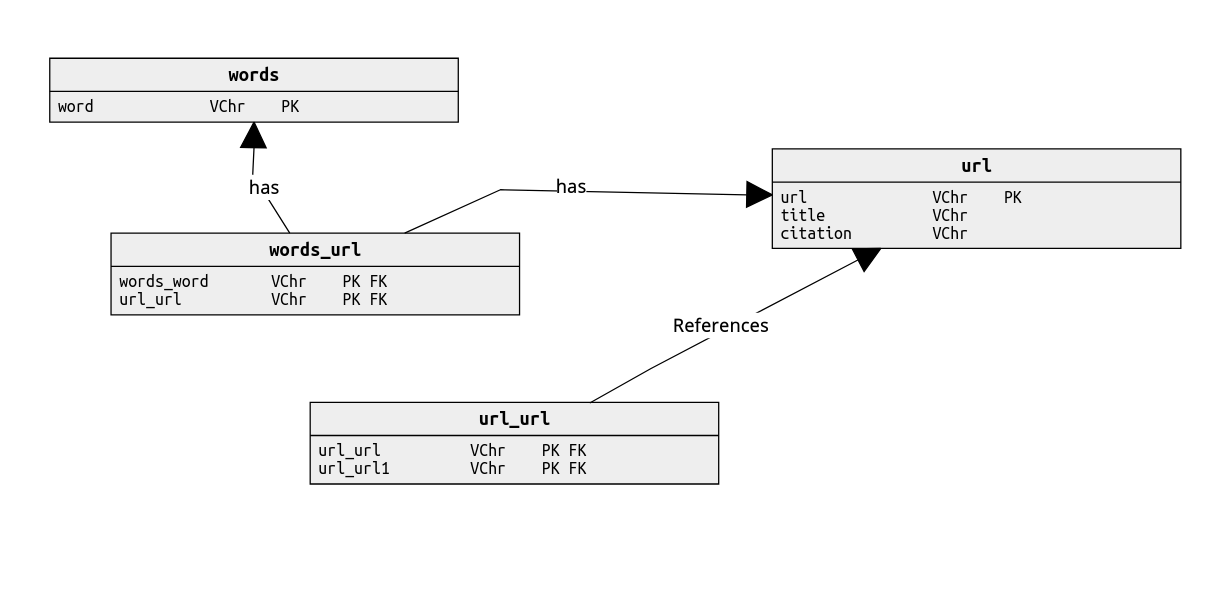
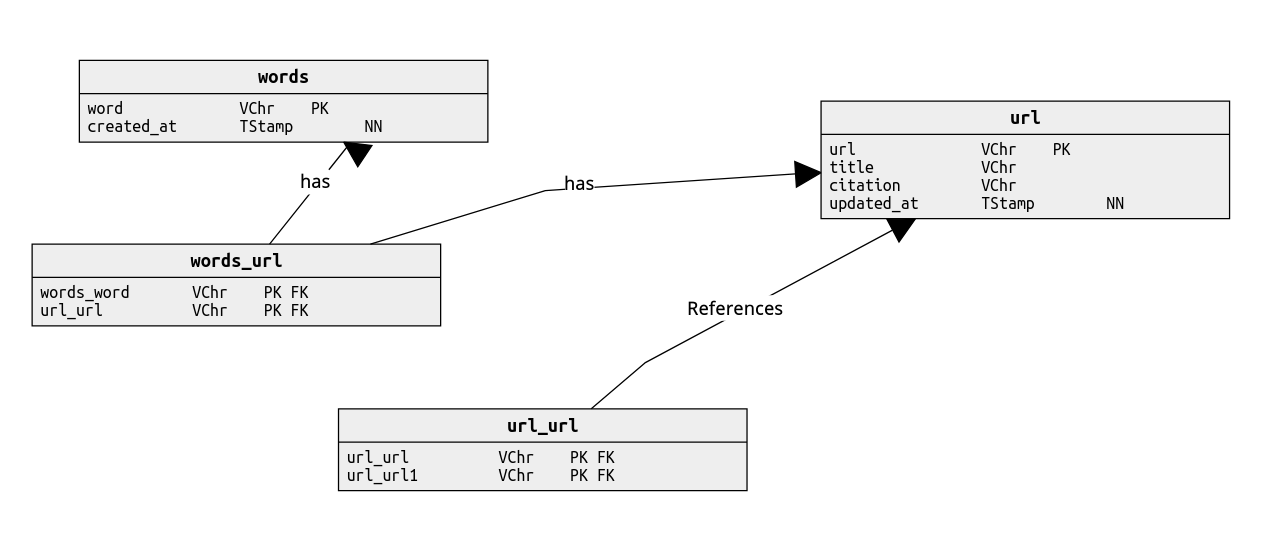
Change DB to prep for synch & some synch helper methods

diff --git a/src/main/java/projetosd/Barrel.java b/src/main/java/projetosd/Barrel.java
@@ -66,7 +66,7 @@ public class Barrel extends UnicastRemoteObject implements BarrelInterface {
         // Because the downloader might insert urls that are in pages before they've been parsed...
         // Here we manage conflicts by updating the remaining info with the excluded insertion
         // Also every query has handling of conflicts because duplicates are common
-        String insertUrlQuery = "INSERT INTO url(url, title, citation) VALUES (?, ?, ?) ON CONFLICT (url) DO UPDATE SET title = EXCLUDED.title, citation = EXCLUDED.citation";
+        String insertUrlQuery = "INSERT INTO url(url, title, citation) VALUES (?, ?, ?) ON CONFLICT (url) DO UPDATE SET title = EXCLUDED.title, citation = EXCLUDED.citation, updated_at = now()";
         // Insert page urls before to avoid breaking foreign keys constraints
         String preInsertPageUrlsQuery = "INSERT INTO url(url) VALUES (?) ON CONFLICT (url) DO NOTHING";
         String insertPageUrlsQuery = "INSERT INTO url_url(url_url, url_url1) VALUES (?, ?) ON CONFLICT DO NOTHING";
@@ -151,7 +151,7 @@ public class Barrel extends UnicastRemoteObject implements BarrelInterface {
                     attempt++;
                     Log.warning("[BARREL " + port + "] Deadlock detected on insertion");
 
-                    try{ Thread.sleep((long) (Config.BARREL_BACKOFF * Math.pow(2, attempt)));} 
+                    try{ Thread.sleep((long) (Config.BARREL_BACKOFF * Math.pow(2, attempt)));}
                     catch (InterruptedException ignored){}
                 }
                 else {
@@ -300,16 +300,25 @@ public class Barrel extends UnicastRemoteObject implements BarrelInterface {
 
         try(java.sql.Connection conn = db.getConnection()){
             for(String table : tables){
+                String columns = switch (table) {
+                    case "url" -> "url, title, citation";
+                    case "words" -> "word";
+                    case "words_url" -> "words_word, url_url";
+                    case "url_url" -> "url_url, url_url1";
+                    default -> "*";
+                };
+
                 String orderColumn = switch (table) {
+                    case "url" -> "url";
                     case "url_url" -> "url_url";
                     case "words" -> "word";
                     case "words_url" -> "words_word";
-                    default -> "url";
+                    default -> "*";
                 };
 
                 // This query computes the tables hash using nested aggregation (aggregate of aggregated values, in this case aggregate each row (tables))
                 // and then aggregate all rows for the table, this is very efficient memory-wise
-                String query = String.format("SELECT md5(string_agg(md5(row(t.*)::text), '' ORDER BY %s)) AS table_hash FROM %s t;", table, orderColumn);
+                String query = String.format("SELECT md5(string_agg(md5(row(%s)::text), '' ORDER BY %s)) AS table_hash FROM %s t;", columns, orderColumn, table);
 
                 try(PreparedStatement stmt = conn.prepareStatement(query)){
                     try(ResultSet rs = stmt.executeQuery()){

diff --git a/src/main/java/projetosd/Gateway.java b/src/main/java/projetosd/Gateway.java
@@ -311,6 +311,42 @@ public class Gateway extends UnicastRemoteObject implements GatewayInterface {
     }
 
     /**
+     * Method to check all barrel hashes and compare to find mismatches
+     * @return HashMap with ports as keys and a list of table names where mismatches were found as value
+     */
+    private Map<Integer, List<String>> detectMismatches(){
+        Map<Integer, List<String>> mismatches = new HashMap<>();
+        Map<Integer, Map<String, String>> allHashes = this.getAllHashes();
+
+        // Get a reference db to check against the others
+        Integer referencePort = allHashes.keySet().stream().findFirst().orElse(null);
+        if (referencePort == null) return mismatches;
+
+        // Store reference hashes
+        Map<String, String> referenceHashes = allHashes.get(referencePort);
+
+        for (Map.Entry<Integer, Map<String, String>> barrelEntry : allHashes.entrySet()) {
+            int barrelPort = barrelEntry.getKey();
+            if (barrelPort == referencePort) continue;
+
+            Map<String, String> otherHashes = barrelEntry.getValue();
+            List<String> barrelMismatches = new ArrayList<>();
+
+            for (String table : referenceHashes.keySet()) {
+                if (!referenceHashes.get(table).equals(otherHashes.get(table))) {
+                    barrelMismatches.add(table);
+                }
+            }
+
+            if (!barrelMismatches.isEmpty()) {
+                mismatches.put(barrelPort, barrelMismatches);
+            }
+        }
+
+        return mismatches;
+    }
+
+    /**
      * Main method for the Gateway.
      */
     public static void main(String[] args) {
